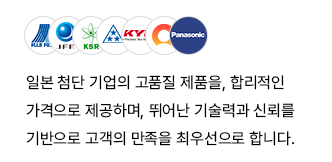
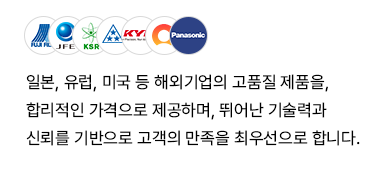
Update002

Changed region(s): [[0.0602, 0.5864, 0.9639, 0.9259], [0.0602, 0.0926, 0.6325, 0.3395], [0.0602, 0.4321, 0.8735, 0.5556]]

diff --git a/src/app/Components/Footer/Footer1.jsx b/src/app/Components/Footer/Footer1.jsx
@@ -15,7 +15,7 @@ const Footer1 = () => {
                             </div>
                             <div className="space20"></div>
                             <div className="heading1">
-                              <p>At TechXen IT Solutions, we are dedicated to delivering innovative technology solutions tailored to meet the unique needs of businesses like yours. </p>
+                              <p>일본, 유럽, 미국 첨단 기업의 고품질 제품을, 합리적인 가격으로 제공하며, 뛰어난 기술력과 신뢰를 기반으로 고객의 만족을 최우선으로 합니다. </p>
                             </div>
                             <ul className="social-icon">
                                  <li><a href="#"><i className="bi bi-linkedin"></i></a></li>
@@ -31,10 +31,10 @@ const Footer1 = () => {
                             <h3>Service We Offer</h3>
 
                             <ul className="menu-list">
-                                 <li><Link href="/service/service-details">Cloud Computing Solution</Link></li>
-                                 <li><Link href="/service/service-details">Cybersecurity & Compliance</Link></li>
-                                 <li><Link href="/service/service-details">Software Development</Link></li>
-                                 <li><Link href="/service/service-details">It Consulting & Support</Link></li>
+                                 <li><Link href="/service/service-details">기업소개</Link></li>
+                                 <li><Link href="/service/service-details">제품소개</Link></li>
+                                 <li><Link href="/service/service-details">서비스</Link></li>
+                                 <li><Link href="/service/service-details">이용사례</Link></li>
                             </ul>
                        </div>
                   </div>
@@ -44,11 +44,11 @@ const Footer1 = () => {
                             <h3>Useful Links</h3>
 
                             <ul className="menu-list">
-                                 <li><Link href="/about">About Us </Link></li>
-                                 <li><Link href="/service">Our Services</Link></li>
-                                 <li><Link href="/blog">Blog & News</Link></li>
-                                 <li><Link href="/project">Project</Link></li>
-                                 <li><Link href="/contact">Contact Us</Link></li>
+                                 <li><Link href="/about">기업소개 </Link></li>
+                                 <li><Link href="/service">서비스</Link></li>
+                                 <li><Link href="/blog">블로그 & 최신 소식</Link></li>
+                                 <li><Link href="/project">제품소개</Link></li>
+                                 <li><Link href="/contact">문의하기</Link></li>
                             </ul>
                        </div>
                   </div>
@@ -63,7 +63,7 @@ const Footer1 = () => {
                                 <Image src="/assets/img/icons/footer1-icon1.png" alt="img" width={24} height={24}   />
                               </div>
                               <div className="pera">
-                                <a href="tel:0500222333">0500 222 333</a>
+                                <a href="tel:010-6543-0443">010-6543-0443</a>
                               </div>
                             </div>
 
@@ -72,7 +72,7 @@ const Footer1 = () => {
                               <Image src="/assets/img/icons/footer1-icon2.png" alt="img" width={24} height={24}   />
                               </div>
                               <div className="pera">
-                                <a href="tel:0356588547">03 5658 8547</a>
+                                <a href="tel:010-2762-2109">010-2762-2109</a>
                               </div>
                             </div>
 
@@ -81,7 +81,7 @@ const Footer1 = () => {
                               <Image src="/assets/img/icons/footer1-icon3.png" alt="img" width={24} height={24}   />
                               </div>
                               <div className="pera">
-                                <a href="mailto:admin@techxen.org">admin@techxen.org</a>
+                                <a href="mailto:tounankorea@kakao.com">tounankorea@kakao.com</a>
                               </div>
                             </div>
 
@@ -90,7 +90,7 @@ const Footer1 = () => {
                               <Image src="/assets/img/icons/footer1-icon4.png" alt="img" width={24} height={24}/>                                
                               </div>
                               <div className="pera">
-                                <a href="mailto:admin@techxen.org">www.techxen.org</a>
+                                <a href="mailto:tounankorea@kakao.com">tounankorea@kakao.com</a>
                               </div>
                             </div>
 
@@ -107,7 +107,7 @@ const Footer1 = () => {
             <div className="row align-items-center">
               <div className="col-md-5">
                    <div className="coppyright">
-                     <p>Copyright @2024 TechXen.All Rights Reserved</p>
+                     <p>Copyright @2025 Tounankorea.All Rights Reserved</p>
                    </div>
               </div>
               <div className="col-md-7">
